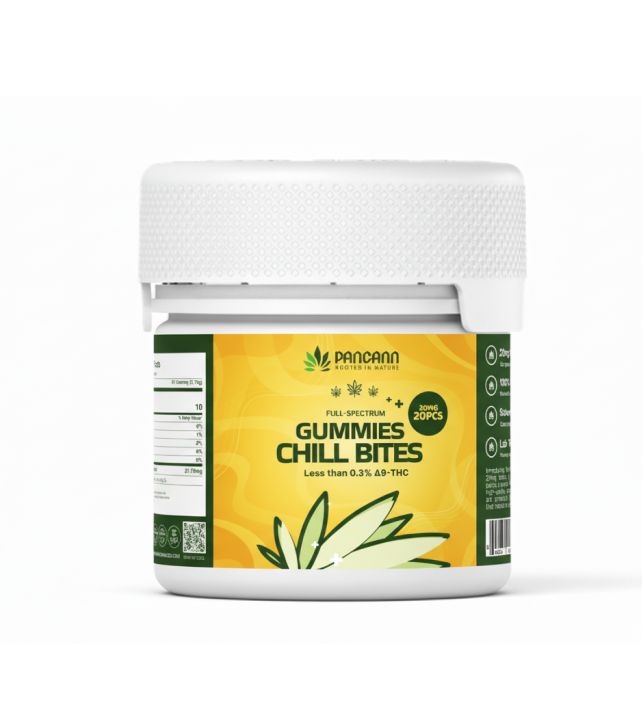
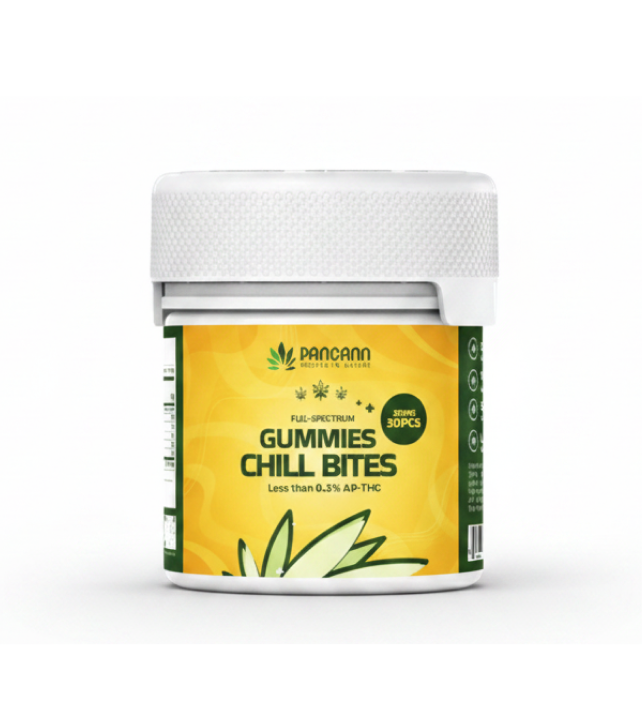
Update Chill Bites products and images

Changed region(s): [[0.1869, 0.2486, 0.81, 0.8701], [0.3427, 0.2175, 0.8411, 0.404]]

diff --git a/index.html b/index.html
@@ -536,8 +536,8 @@
               <div class="star-rating" role="img" aria-label="Rated 5 out of 5">
                 <span style="width:100%">Rated <strong class="rating">5</strong> out of 5</span>
               </div>
-              <span class="product-cate">Full-Spectrum / 20PCS</span>
-              <span class="product-price">$39.00</span>
+              <span class="product-cate">Full-Spectrum / 30PCS</span>
+              <span class="product-price">$44.00</span>
               <div class="product-actions2">
                 <a href="contact.html" class="vs-btn style1" tabindex="0"> <i class="fas fa-shopping-basket"></i>
                   Order Now

diff --git a/cbd-hemp-capsule-chill-bites-20mg.html b/cbd-hemp-capsule-chill-bites-20mg.html
@@ -334,8 +334,8 @@
             </div>
             <h2 class="product-title">CBD Gummies Chill Bites 20mg</h2>
 
-            <span class="product-ml">Full-Spectrum / 20PCS</span>
-            <p class="product-price">$39.00</p>
+            <span class="product-ml">Full-Spectrum / 30PCS</span>
+            <p class="product-price">$44.00</p>
             <div class="actions">
               <div class="quantity">
                 <label for="quantity" class="screen-reader-text">Quantity:</label>
